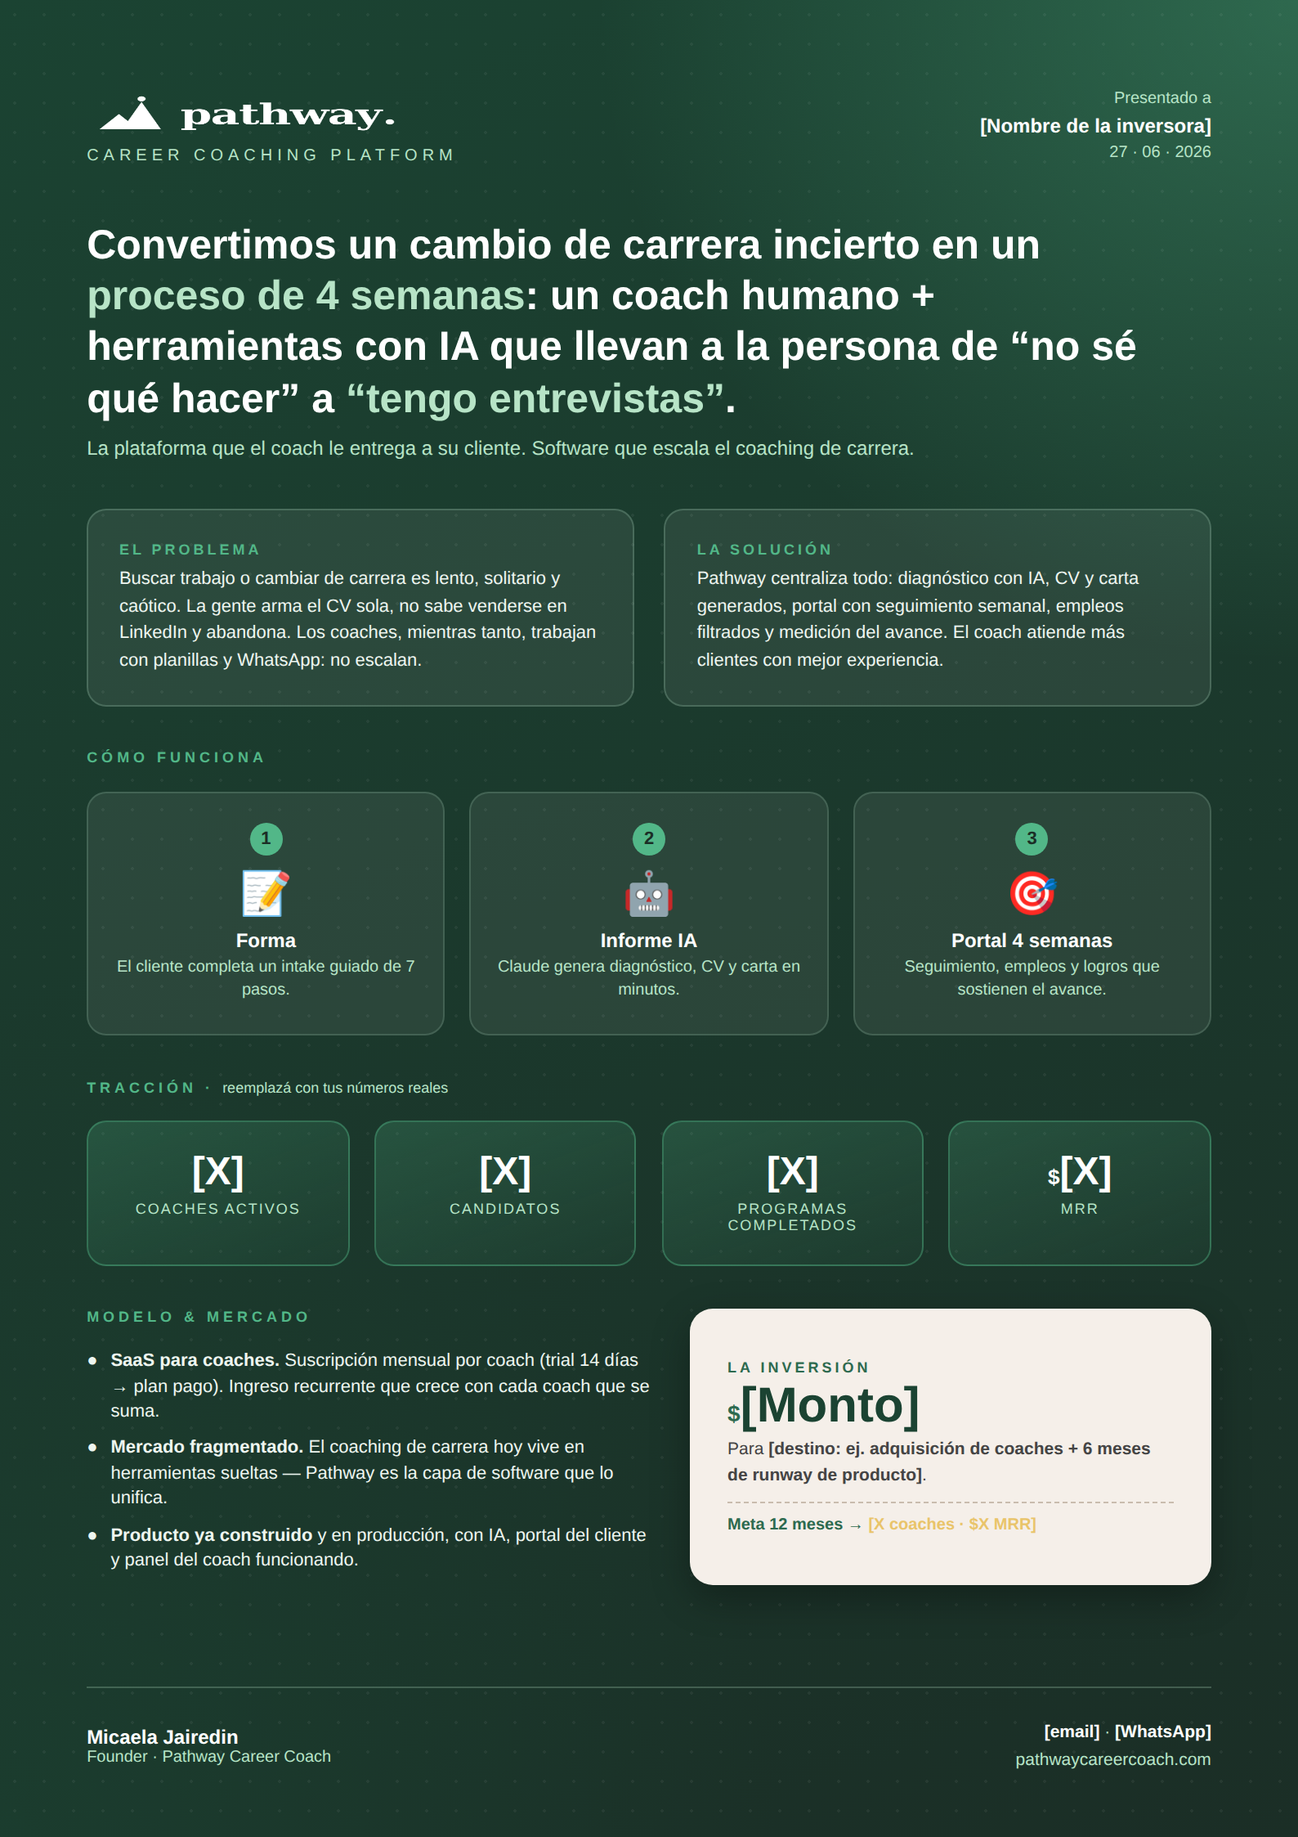
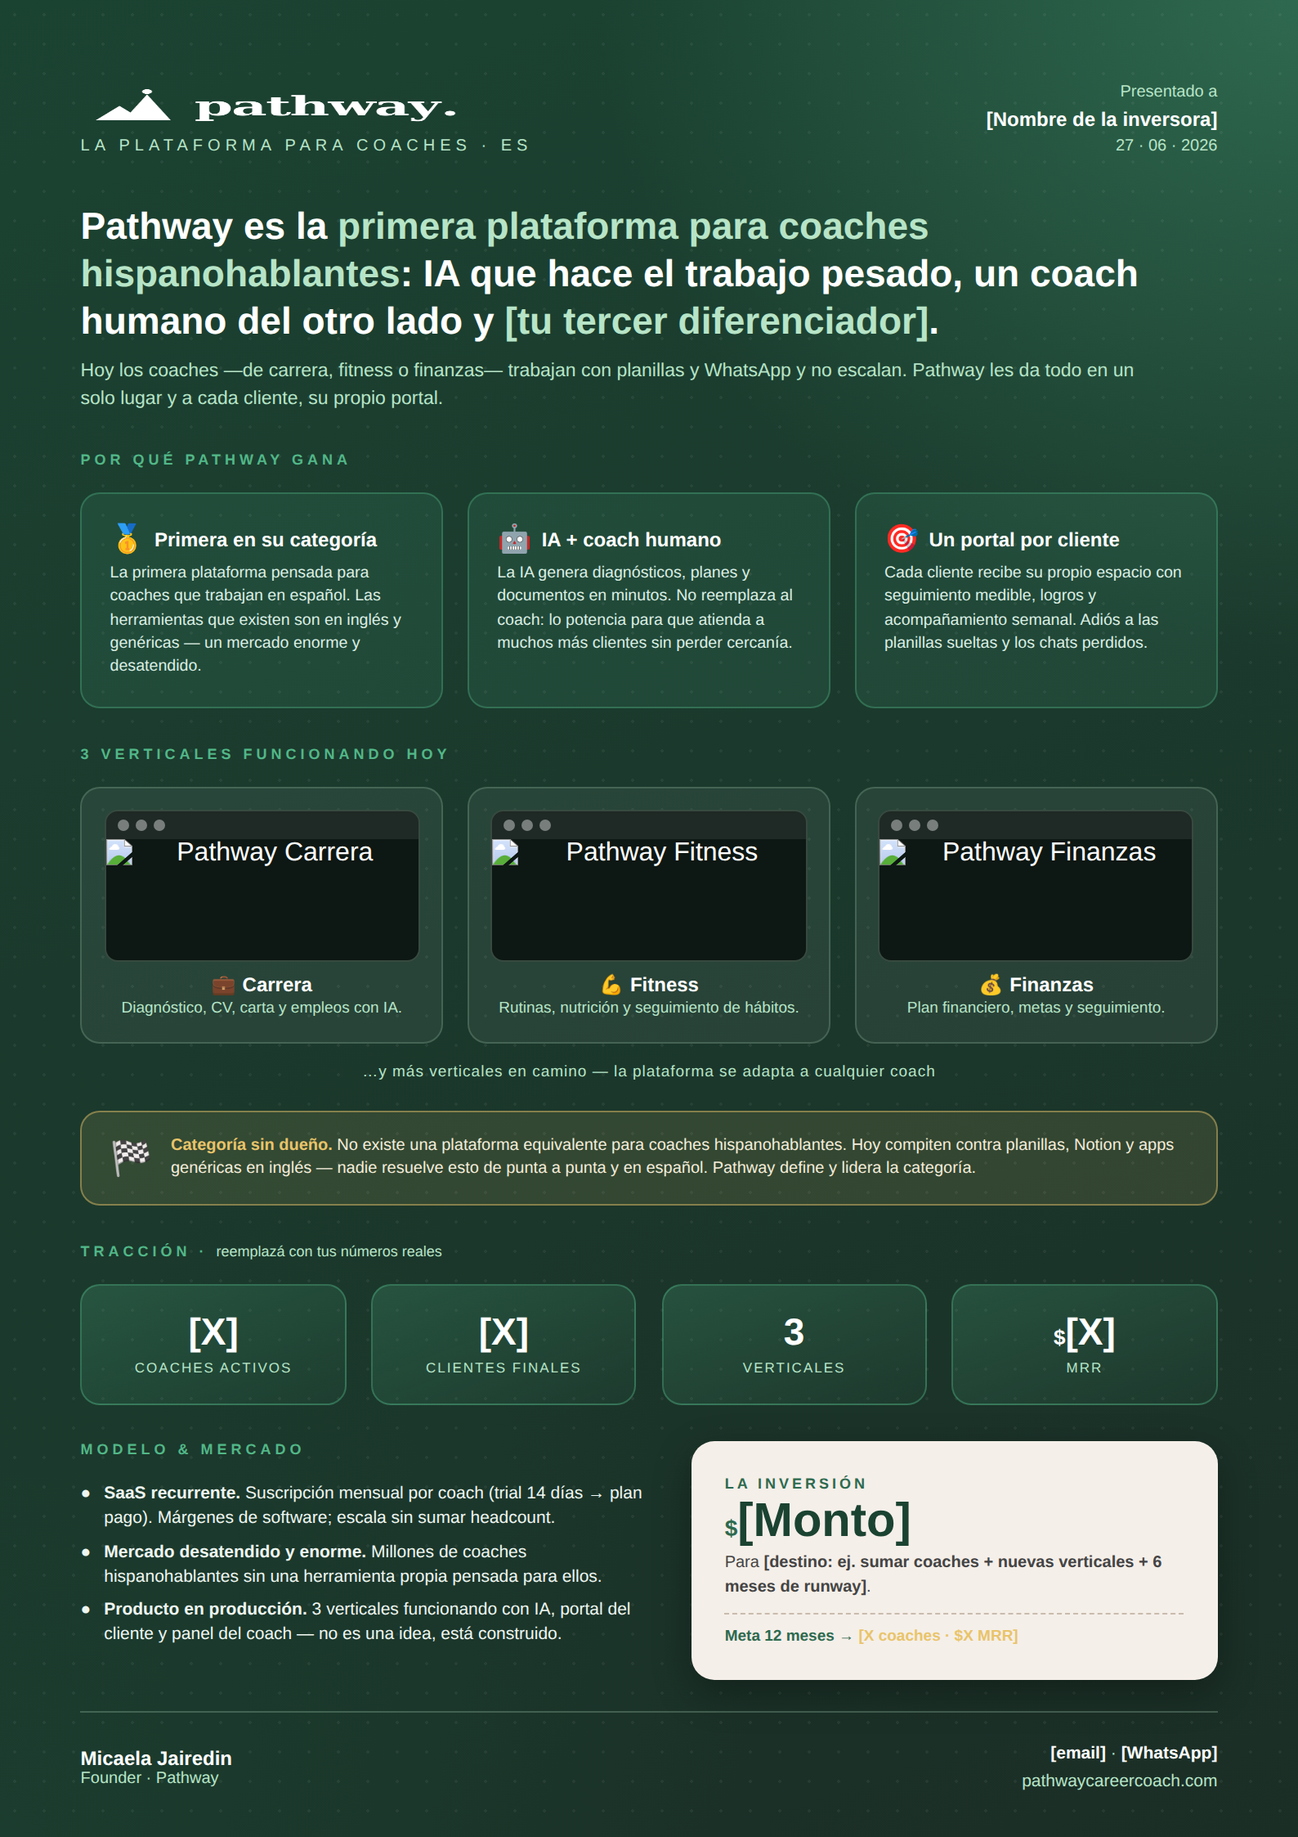
Reposition pitch A4: first platform for Spanish-speaking coaches
- Reframe from career-coaching to multi-niche platform for Spanish-speaking coaches
- Add 'why Pathway wins' differentiators (category-first, AI + human coach, portal per client)
- Add 3 live verticals (career, fitness, finance) with landing screenshots
- Add 'category with no owner' competition band
- Update model & market and stats to match

Claude-Session: https://claude.ai/code/session_01EafHJxtE6Pka73EkMH1x26

diff --git a/pitch-a4.html b/pitch-a4.html
@@ -8,136 +8,92 @@
 <link href="https://fonts.googleapis.com/css2?family=Poppins:wght@300;400;500;600;700;800&display=swap" rel="stylesheet">
 <style>
   :root{
-    --g-deep:#1B2E26;   /* verde casi negro */
-    --g-dark:#1B4332;   /* verde oscuro */
-    --g-mid:#2D6A4F;    /* verde marca */
-    --g-soft:#52B788;   /* verde claro acento */
-    --g-mint:#B7E4C7;   /* menta */
-    --cream:#F5EFE9;    /* tarjetas */
-    --gold:#E9C46A;     /* dato destacado */
-    --ink:#1a1a1a;
+    --g-deep:#1B2E26;--g-dark:#1B4332;--g-mid:#2D6A4F;
+    --g-soft:#52B788;--g-mint:#B7E4C7;--cream:#F5EFE9;
+    --gold:#E9C46A;--ink:#1a1a1a;
   }
   *{margin:0;padding:0;box-sizing:border-box}
-  body{
-    font-family:'Poppins',sans-serif;
-    background:#0f1a15;
-    display:flex;flex-direction:column;align-items:center;
-    padding:24px;gap:16px;
-  }
+  body{font-family:'Poppins',sans-serif;background:#0f1a15;display:flex;flex-direction:column;align-items:center;padding:24px;gap:16px}
 
-  /* ---------- TOOLBAR (no se imprime) ---------- */
-  .bar{
-    width:210mm;display:flex;justify-content:space-between;align-items:center;
-    background:#fff;border-radius:12px;padding:12px 18px;
-    box-shadow:0 4px 18px rgba(0,0,0,.25);font-size:13px;color:#333;
-  }
+  .bar{width:210mm;display:flex;justify-content:space-between;align-items:center;background:#fff;border-radius:12px;padding:12px 18px;box-shadow:0 4px 18px rgba(0,0,0,.25);font-size:13px;color:#333}
   .bar b{color:var(--g-mid)}
-  .bar button{
-    font-family:inherit;border:none;background:var(--g-mid);color:#fff;
-    padding:9px 18px;border-radius:8px;font-weight:600;cursor:pointer;font-size:13px;
-  }
+  .bar button{font-family:inherit;border:none;background:var(--g-mid);color:#fff;padding:9px 18px;border-radius:8px;font-weight:600;cursor:pointer;font-size:13px}
   .bar button:hover{background:var(--g-dark)}
 
-  /* ---------- HOJA A4 ---------- */
   .a4{
     width:210mm;height:297mm;
     background:
       radial-gradient(120% 80% at 100% 0%, rgba(82,183,136,.35) 0%, transparent 45%),
       radial-gradient(120% 90% at 0% 100%, rgba(27,67,50,.6) 0%, transparent 50%),
       linear-gradient(160deg, var(--g-dark) 0%, var(--g-deep) 100%);
-    color:#fff;
-    padding:14mm 14mm 10mm;
-    display:flex;flex-direction:column;
-    box-shadow:0 10px 40px rgba(0,0,0,.5);
-    position:relative;overflow:hidden;
+    color:#fff;padding:13mm 13mm 9mm;display:flex;flex-direction:column;
+    box-shadow:0 10px 40px rgba(0,0,0,.5);position:relative;overflow:hidden;
   }
-  .a4::before{ /* textura puntos sutil */
-    content:"";position:absolute;inset:0;
-    background-image:radial-gradient(rgba(255,255,255,.05) 1px, transparent 1px);
-    background-size:18px 18px;pointer-events:none;
-  }
+  .a4::before{content:"";position:absolute;inset:0;background-image:radial-gradient(rgba(255,255,255,.05) 1px, transparent 1px);background-size:18px 18px;pointer-events:none}
   .a4 > *{position:relative;z-index:1}
 
-  /* ---------- HEADER ---------- */
-  header{display:flex;justify-content:space-between;align-items:flex-start;margin-bottom:9mm}
+  header{display:flex;justify-content:space-between;align-items:flex-start;margin-bottom:7mm}
   .logo-wrap{display:flex;flex-direction:column;gap:3px}
-  .logo-wrap img{height:34px;width:auto;filter:brightness(0) invert(1)}
+  .logo-wrap img{height:32px;width:auto;filter:brightness(0) invert(1)}
   .logo-fallback{font-size:22px;font-weight:800;letter-spacing:.5px}
   .logo-fallback span{color:var(--g-soft)}
   .tag{font-size:10px;letter-spacing:3px;text-transform:uppercase;color:var(--g-mint);font-weight:500}
   .to{text-align:right;font-size:10px;color:var(--g-mint);line-height:1.5}
   .to b{color:#fff;display:block;font-size:12px}
 
-  /* ---------- ONE LINER ---------- */
-  .hero{margin-bottom:8mm}
-  .hero h1{
-    font-size:25px;line-height:1.25;font-weight:700;max-width:175mm;
-  }
+  .hero{margin-bottom:6mm}
+  .hero h1{font-size:23px;line-height:1.28;font-weight:700;max-width:180mm}
   .hero h1 em{color:var(--g-mint);font-style:normal;font-weight:800}
-  .hero .sub{font-size:12px;color:var(--g-mint);margin-top:7px;font-weight:400}
+  .hero .sub{font-size:11.5px;color:var(--g-mint);margin-top:7px;font-weight:400;max-width:175mm;line-height:1.5}
 
-  /* ---------- GRID PROBLEMA/SOLUCION ---------- */
-  .two{display:grid;grid-template-columns:1fr 1fr;gap:5mm;margin-bottom:7mm}
-  .card{
-    background:rgba(255,255,255,.07);
-    border:1px solid rgba(183,228,199,.22);
-    border-radius:12px;padding:5mm;
-  }
-  .card .k{
-    font-size:9px;letter-spacing:2px;text-transform:uppercase;
-    color:var(--g-soft);font-weight:700;margin-bottom:5px;
-  }
-  .card p{font-size:11px;line-height:1.5;color:#eef6f0}
+  .sec-title{font-size:9px;letter-spacing:2.5px;text-transform:uppercase;color:var(--g-soft);font-weight:700;margin-bottom:4mm}
+  .sec-title .note{color:var(--g-mint);font-weight:400;text-transform:none;letter-spacing:0}
 
-  /* ---------- PASOS ---------- */
-  .steps-title,.sec-title{
-    font-size:9px;letter-spacing:2.5px;text-transform:uppercase;
-    color:var(--g-soft);font-weight:700;margin-bottom:4mm;
-  }
-  .steps{display:grid;grid-template-columns:repeat(3,1fr);gap:4mm;margin-bottom:7mm}
-  .step{
-    background:rgba(255,255,255,.07);border-radius:12px;padding:5mm 4mm;text-align:center;
-    border:1px solid rgba(183,228,199,.18);
-  }
-  .step .ico{font-size:26px;display:block;margin-bottom:6px}
-  .step .st{font-size:12px;font-weight:700;margin-bottom:3px}
-  .step .sd{font-size:10px;color:var(--g-mint);line-height:1.4}
-  .step .num{
-    display:inline-block;width:20px;height:20px;line-height:20px;border-radius:50%;
-    background:var(--g-soft);color:var(--g-deep);font-weight:800;font-size:11px;margin-bottom:8px;
-  }
+  /* DIFERENCIADORES */
+  .diffs{display:grid;grid-template-columns:repeat(3,1fr);gap:4mm;margin-bottom:6mm}
+  .diff{background:rgba(82,183,136,.12);border:1px solid rgba(82,183,136,.35);border-radius:12px;padding:4.5mm}
+  .diff .dh{font-size:12px;font-weight:700;color:#fff;margin-bottom:4px;display:flex;align-items:center;gap:6px}
+  .diff .dh .em{font-size:17px}
+  .diff p{font-size:9.8px;line-height:1.45;color:#dbeee3}
 
-  /* ---------- TRACCION (numeros) ---------- */
-  .stats{display:grid;grid-template-columns:repeat(4,1fr);gap:4mm;margin-bottom:7mm}
-  .stat{
-    background:linear-gradient(160deg, rgba(82,183,136,.22), rgba(82,183,136,.05));
-    border:1px solid rgba(82,183,136,.4);border-radius:12px;padding:5mm 3mm;text-align:center;
-  }
-  .stat .v{font-size:24px;font-weight:800;color:#fff;line-height:1}
+  /* VERTICALES con screenshots */
+  .verticals{display:grid;grid-template-columns:repeat(3,1fr);gap:4mm;margin-bottom:6mm}
+  .vert{background:rgba(255,255,255,.06);border:1px solid rgba(183,228,199,.2);border-radius:12px;padding:3.5mm;text-align:center}
+  .browser{background:#0d1713;border-radius:8px;overflow:hidden;border:1px solid rgba(183,228,199,.25);margin-bottom:7px}
+  .browser .top{display:flex;gap:4px;padding:5px 7px;background:rgba(255,255,255,.08)}
+  .browser .top i{width:7px;height:7px;border-radius:50%;background:rgba(255,255,255,.4);display:inline-block}
+  .browser img{width:100%;display:block;height:74px;object-fit:cover;object-position:top}
+  .vert .vt{font-size:12px;font-weight:700}
+  .vert .vt .em{margin-right:4px}
+  .vert .vd{font-size:9.5px;color:var(--g-mint);line-height:1.35;margin-top:2px}
+  .more{text-align:center;font-size:9.5px;color:var(--g-mint);margin:-3mm 0 5mm;letter-spacing:.5px}
+
+  /* COMPETENCIA */
+  .compete{display:flex;gap:11px;align-items:center;background:rgba(233,196,106,.12);border:1px solid rgba(233,196,106,.45);border-radius:12px;padding:3.5mm 4.5mm;margin-bottom:6mm}
+  .compete .ci{font-size:21px;line-height:1}
+  .compete b{color:var(--gold)}
+  .compete p{font-size:10px;line-height:1.45;color:#f3ecda}
+
+  /* STATS */
+  .stats{display:grid;grid-template-columns:repeat(4,1fr);gap:4mm;margin-bottom:6mm}
+  .stat{background:linear-gradient(160deg, rgba(82,183,136,.22), rgba(82,183,136,.05));border:1px solid rgba(82,183,136,.4);border-radius:12px;padding:4.5mm 3mm;text-align:center}
+  .stat .v{font-size:23px;font-weight:800;color:#fff;line-height:1}
   .stat .v small{font-size:13px}
-  .stat .l{font-size:9px;color:var(--g-mint);margin-top:5px;text-transform:uppercase;letter-spacing:1px}
+  .stat .l{font-size:8.5px;color:var(--g-mint);margin-top:5px;text-transform:uppercase;letter-spacing:1px}
 
-  /* ---------- MODELO + ASK ---------- */
-  .bottom{display:grid;grid-template-columns:1.1fr 1fr;gap:5mm;margin-bottom:6mm}
-  .model .row{display:flex;gap:8px;align-items:flex-start;margin-bottom:7px}
+  /* MODELO + ASK */
+  .bottom{display:grid;grid-template-columns:1.1fr 1fr;gap:5mm;margin-bottom:5mm}
+  .model .row{display:flex;gap:8px;align-items:flex-start;margin-bottom:6px}
   .model .dot{color:var(--g-soft);font-size:13px;line-height:1.3}
-  .model .row span{font-size:11px;line-height:1.4;color:#eef6f0}
-  .ask{
-    background:var(--cream);color:var(--ink);border-radius:14px;padding:6mm;
-    display:flex;flex-direction:column;justify-content:center;
-    box-shadow:0 8px 24px rgba(0,0,0,.3);
-  }
+  .model .row span{font-size:10.5px;line-height:1.4;color:#eef6f0}
+  .ask{background:var(--cream);color:var(--ink);border-radius:14px;padding:5.5mm;display:flex;flex-direction:column;justify-content:center;box-shadow:0 8px 24px rgba(0,0,0,.3)}
   .ask .k{font-size:9px;letter-spacing:2px;text-transform:uppercase;color:var(--g-mid);font-weight:700}
-  .ask .amount{font-size:30px;font-weight:800;color:var(--g-dark);margin:4px 0;line-height:1}
+  .ask .amount{font-size:29px;font-weight:800;color:var(--g-dark);margin:4px 0;line-height:1}
   .ask .amount small{font-size:14px;color:var(--g-mid)}
-  .ask p{font-size:10.5px;line-height:1.45;color:#444}
-  .ask .goal{margin-top:8px;padding-top:8px;border-top:1px dashed #c9bcae;font-size:10px;color:var(--g-mid);font-weight:600}
+  .ask p{font-size:10px;line-height:1.45;color:#444}
+  .ask .goal{margin-top:8px;padding-top:8px;border-top:1px dashed #c9bcae;font-size:9.5px;color:var(--g-mid);font-weight:600}
 
-  /* ---------- FOOTER ---------- */
-  footer{
-    margin-top:auto;display:flex;justify-content:space-between;align-items:center;
-    border-top:1px solid rgba(183,228,199,.25);padding-top:5mm;
-  }
+  footer{margin-top:auto;display:flex;justify-content:space-between;align-items:center;border-top:1px solid rgba(183,228,199,.25);padding-top:4.5mm}
   footer .who{font-size:12px;font-weight:700}
   footer .who small{display:block;font-weight:400;color:var(--g-mint);font-size:10px}
   footer .contact{font-size:10.5px;color:var(--g-mint);text-align:right;line-height:1.6}
@@ -145,7 +101,6 @@
 
   .hl{color:var(--gold);font-weight:700}
 
-  /* ---------- PRINT ---------- */
   @media print{
     @page{size:A4;margin:0}
     body{background:#fff;padding:0;gap:0}
@@ -169,7 +124,7 @@
       <div class="logo-wrap">
         <img src="logo-horizontal.png" alt="Pathway" onerror="this.style.display='none';this.nextElementSibling.style.display='block'">
         <div class="logo-fallback" style="display:none">Path<span>way</span></div>
-        <div class="tag">Career Coaching Platform</div>
+        <div class="tag">La plataforma para coaches · ES</div>
       </div>
       <div class="to">
         Presentado a
@@ -180,51 +135,63 @@
 
     <!-- ONE LINER -->
     <div class="hero">
-      <h1>Convertimos un cambio de carrera incierto en un <em>proceso de 4 semanas</em>: un coach humano + herramientas con IA que llevan a la persona de “no sé qué hacer” a <em>“tengo entrevistas”</em>.</h1>
-      <div class="sub">La plataforma que el coach le entrega a su cliente. Software que escala el coaching de carrera.</div>
+      <h1>Pathway es la <em>primera plataforma para coaches hispanohablantes</em>: IA que hace el trabajo pesado, un coach humano del otro lado y <em>[tu tercer diferenciador]</em>.</h1>
+      <div class="sub">Hoy los coaches —de carrera, fitness o finanzas— trabajan con planillas y WhatsApp y no escalan. Pathway les da todo en un solo lugar y a cada cliente, su propio portal.</div>
     </div>
 
-    <!-- PROBLEMA / SOLUCION -->
-    <div class="two">
-      <div class="card">
-        <div class="k">El problema</div>
-        <p>Buscar trabajo o cambiar de carrera es lento, solitario y caótico. La gente arma el CV sola, no sabe venderse en LinkedIn y abandona. Los coaches, mientras tanto, trabajan con planillas y WhatsApp: no escalan.</p>
+    <!-- DIFERENCIADORES -->
+    <div class="sec-title">Por qué Pathway gana</div>
+    <div class="diffs">
+      <div class="diff">
+        <div class="dh"><span class="em">🥇</span>Primera en su categoría</div>
+        <p>La primera plataforma pensada para coaches que trabajan en español. Las herramientas que existen son en inglés y genéricas — un mercado enorme y desatendido.</p>
       </div>
-      <div class="card">
-        <div class="k">La solución</div>
-        <p>Pathway centraliza todo: diagnóstico con IA, CV y carta generados, portal con seguimiento semanal, empleos filtrados y medición del avance. El coach atiende más clientes con mejor experiencia.</p>
+      <div class="diff">
+        <div class="dh"><span class="em">🤖</span>IA + coach humano</div>
+        <p>La IA genera diagnósticos, planes y documentos en minutos. No reemplaza al coach: lo potencia para que atienda a muchos más clientes sin perder cercanía.</p>
+      </div>
+      <div class="diff">
+        <div class="dh"><span class="em">🎯</span>Un portal por cliente</div>
+        <p>Cada cliente recibe su propio espacio con seguimiento medible, logros y acompañamiento semanal. Adiós a las planillas sueltas y los chats perdidos.</p>
       </div>
     </div>
 
-    <!-- PASOS -->
-    <div class="steps-title">Cómo funciona</div>
-    <div class="steps">
-      <div class="step">
-        <div class="num">1</div>
-        <span class="ico">📝</span>
-        <div class="st">Forma</div>
-        <div class="sd">El cliente completa un intake guiado de 7 pasos.</div>
+    <!-- VERTICALES -->
+    <div class="sec-title">3 verticales funcionando hoy</div>
+    <div class="verticals">
+      <div class="vert">
+        <div class="browser"><div class="top"><i></i><i></i><i></i></div>
+          <img src="https://2du7ztpxfq.ucarecd.net/2746451a-c538-4d4f-b3fc-78c203511183/carrerapantallazo.png" alt="Pathway Carrera"></div>
+        <div class="vt"><span class="em">💼</span>Carrera</div>
+        <div class="vd">Diagnóstico, CV, carta y empleos con IA.</div>
       </div>
-      <div class="step">
-        <div class="num">2</div>
-        <span class="ico">🤖</span>
-        <div class="st">Informe IA</div>
-        <div class="sd">Claude genera diagnóstico, CV y carta en minutos.</div>
+      <div class="vert">
+        <div class="browser"><div class="top"><i></i><i></i><i></i></div>
+          <img src="https://2du7ztpxfq.ucarecd.net/46143ab0-ee64-4270-9e61-dca116127385/fitnesspantallazo.png" alt="Pathway Fitness"></div>
+        <div class="vt"><span class="em">💪</span>Fitness</div>
+        <div class="vd">Rutinas, nutrición y seguimiento de hábitos.</div>
       </div>
-      <div class="step">
-        <div class="num">3</div>
-        <span class="ico">🎯</span>
-        <div class="st">Portal 4 semanas</div>
-        <div class="sd">Seguimiento, empleos y logros que sostienen el avance.</div>
+      <div class="vert">
+        <div class="browser"><div class="top"><i></i><i></i><i></i></div>
+          <img src="https://2du7ztpxfq.ucarecd.net/7beb044e-08d7-4be7-97b5-fc54ad6d3eb8/finanzaspantallazo.png" alt="Pathway Finanzas"></div>
+        <div class="vt"><span class="em">💰</span>Finanzas</div>
+        <div class="vd">Plan financiero, metas y seguimiento.</div>
       </div>
+    </div>
+    <div class="more">…y más verticales en camino — la plataforma se adapta a cualquier coach</div>
+
+    <!-- COMPETENCIA -->
+    <div class="compete">
+      <span class="ci">🏁</span>
+      <p><b>Categoría sin dueño.</b> No existe una plataforma equivalente para coaches hispanohablantes. Hoy compiten contra planillas, Notion y apps genéricas en inglés — nadie resuelve esto de punta a punta y en español. Pathway define y lidera la categoría.</p>
     </div>
 
     <!-- TRACCION -->
-    <div class="sec-title">Tracción · <span style="color:var(--g-mint);font-weight:400;text-transform:none;letter-spacing:0">reemplazá con tus números reales</span></div>
+    <div class="sec-title">Tracción · <span class="note">reemplazá con tus números reales</span></div>
     <div class="stats">
       <div class="stat"><div class="v">[X]</div><div class="l">Coaches activos</div></div>
-      <div class="stat"><div class="v">[X]</div><div class="l">Candidatos</div></div>
-      <div class="stat"><div class="v">[X]</div><div class="l">Programas completados</div></div>
+      <div class="stat"><div class="v">[X]</div><div class="l">Clientes finales</div></div>
+      <div class="stat"><div class="v">3</div><div class="l">Verticales</div></div>
       <div class="stat"><div class="v"><small>$</small>[X]</div><div class="l">MRR</div></div>
     </div>
 
@@ -232,21 +199,21 @@
     <div class="bottom">
       <div class="model">
         <div class="sec-title">Modelo & mercado</div>
-        <div class="row"><span class="dot">●</span><span><b>SaaS para coaches.</b> Suscripción mensual por coach (trial 14 días → plan pago). Ingreso recurrente que crece con cada coach que se suma.</span></div>
-        <div class="row"><span class="dot">●</span><span><b>Mercado fragmentado.</b> El coaching de carrera hoy vive en herramientas sueltas — Pathway es la capa de software que lo unifica.</span></div>
-        <div class="row"><span class="dot">●</span><span><b>Producto ya construido</b> y en producción, con IA, portal del cliente y panel del coach funcionando.</span></div>
+        <div class="row"><span class="dot">●</span><span><b>SaaS recurrente.</b> Suscripción mensual por coach (trial 14 días → plan pago). Márgenes de software; escala sin sumar headcount.</span></div>
+        <div class="row"><span class="dot">●</span><span><b>Mercado desatendido y enorme.</b> Millones de coaches hispanohablantes sin una herramienta propia pensada para ellos.</span></div>
+        <div class="row"><span class="dot">●</span><span><b>Producto en producción.</b> 3 verticales funcionando con IA, portal del cliente y panel del coach — no es una idea, está construido.</span></div>
       </div>
       <div class="ask">
         <div class="k">La inversión</div>
         <div class="amount"><small>$</small>[Monto]</div>
-        <p>Para <b>[destino: ej. adquisición de coaches + 6 meses de runway de producto]</b>.</p>
+        <p>Para <b>[destino: ej. sumar coaches + nuevas verticales + 6 meses de runway]</b>.</p>
         <div class="goal">Meta 12 meses → <span class="hl">[X coaches · $X MRR]</span></div>
       </div>
     </div>
 
     <!-- FOOTER -->
     <footer>
-      <div class="who">Micaela Jairedin<small>Founder · Pathway Career Coach</small></div>
+      <div class="who">Micaela Jairedin<small>Founder · Pathway</small></div>
       <div class="contact">
         <b>[email]</b> · <b>[WhatsApp]</b><br>
         pathwaycareercoach.com
